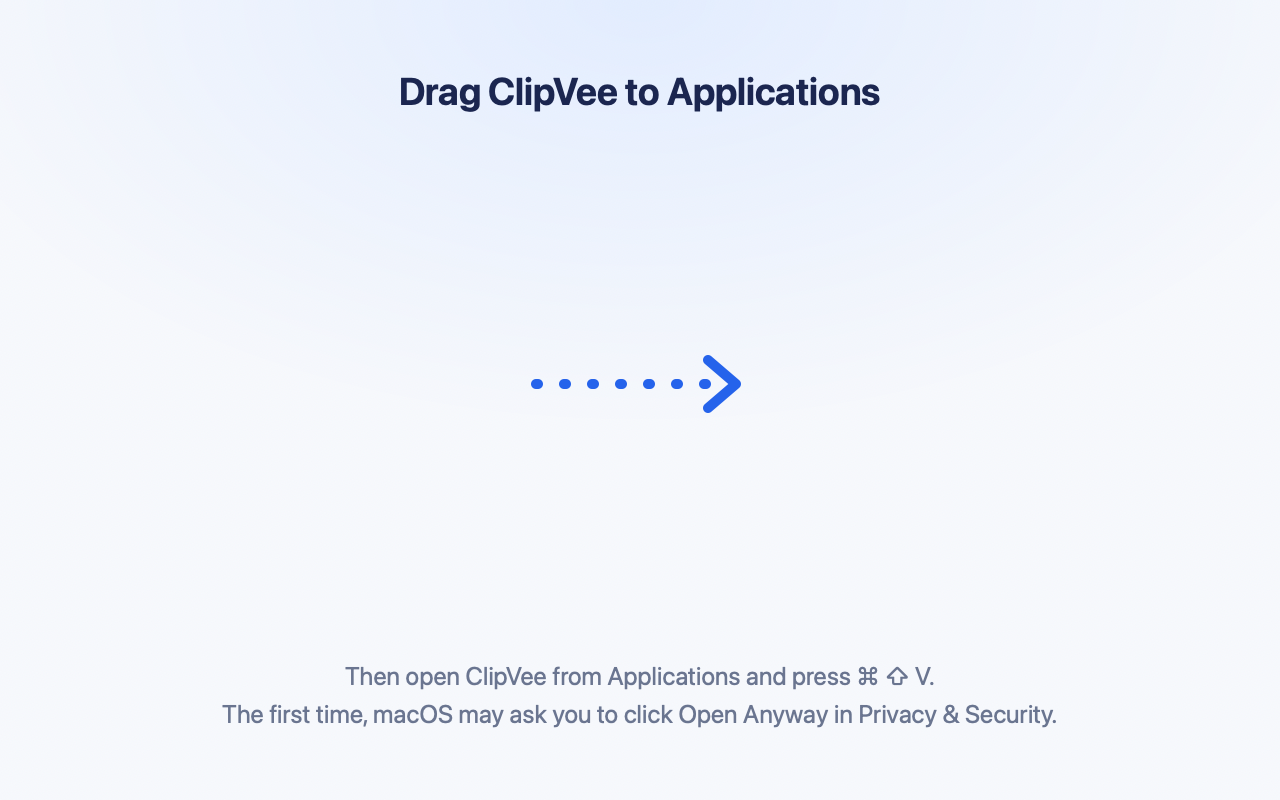
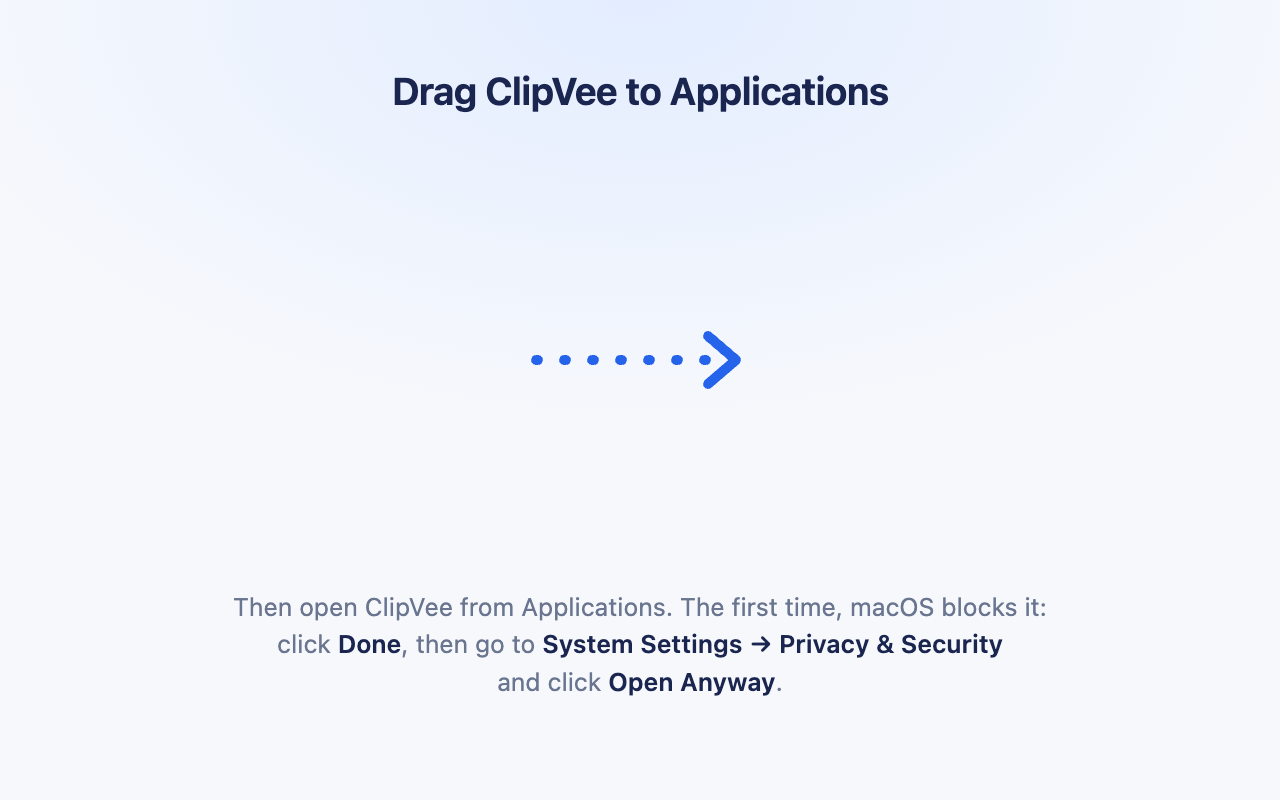
Spell out the Open Anyway steps in the disk image window
Say to click Done first and where Open Anyway is, and lift the layout so the
last line isn't cut off by the title bar.

Changed region(s): [[0.1562, 0.75, 0.8125, 0.9062], [0.2812, 0.0938, 0.6875, 0.1562], [0.4062, 0.4062, 0.5938, 0.5312]]

diff --git a/Design/dmg-background.html b/Design/dmg-background.html
@@ -4,10 +4,11 @@
 body{width:640px;height:400px;overflow:hidden;font-family:-apple-system,BlinkMacSystemFont,sans-serif;
 background:radial-gradient(520px 300px at 50% 0%,#E3EDFF 0%,#F6F8FC 70%),#F6F8FC;position:relative}
 h1{position:absolute;top:34px;width:100%;text-align:center;font-size:19px;font-weight:650;color:#1B2650;letter-spacing:-.01em}
-p{position:absolute;bottom:34px;width:100%;text-align:center;font-size:12.5px;color:#6A7590;line-height:1.5}
-svg{position:absolute;left:262px;top:172px}
+p{position:absolute;bottom:50px;width:100%;text-align:center;font-size:12.5px;color:#6A7590;line-height:1.5}
+p b{font-weight:600;color:#1B2650}
+svg{position:absolute;left:262px;top:160px}
 </style></head><body>
 <h1>Drag ClipVee to Applications</h1>
 <svg width="116" height="40" viewBox="0 0 116 40"><path d="M6 20h96" stroke="#2563EB" stroke-width="5" stroke-linecap="round" stroke-dasharray="1 13"/><path d="M92 8l14 12-14 12" fill="none" stroke="#2563EB" stroke-width="5" stroke-linecap="round" stroke-linejoin="round"/></svg>
-<p>Then open ClipVee from Applications and press ⌘ ⇧ V.<br>The first time, macOS may ask you to click Open Anyway in Privacy &amp; Security.</p>
+<p>Then open ClipVee from Applications. The first time, macOS blocks it:<br>click <b>Done</b>, then go to <b>System Settings → Privacy &amp; Security</b><br>and click <b>Open Anyway</b>.</p>
 </body></html>

diff --git a/scripts/dmg-settings.py b/scripts/dmg-settings.py
@@ -19,4 +19,4 @@ show_pathbar = False
 show_sidebar = False
 icon_size = 128
 text_size = 13
-icon_locations = {app_name: (160, 192), "Applications": (480, 192)}
+icon_locations = {app_name: (160, 180), "Applications": (480, 180)}
